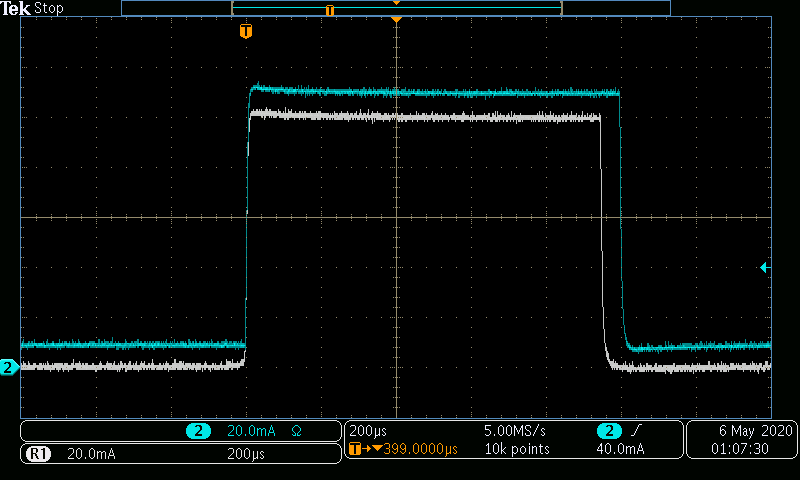
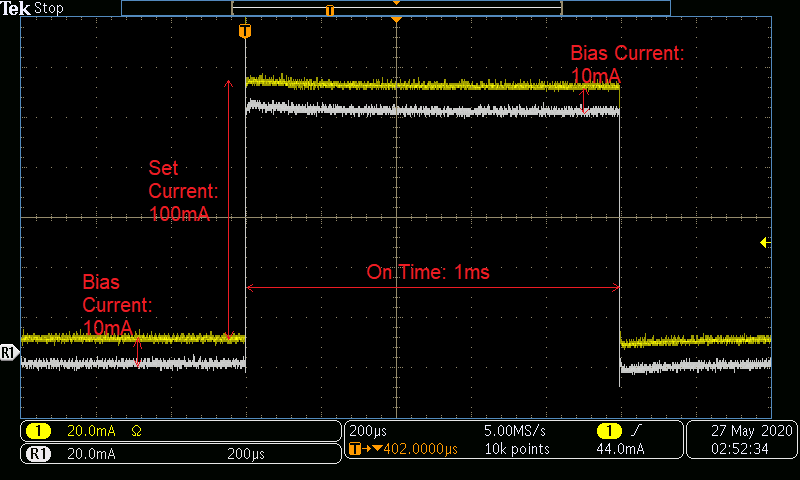
Minor improvements to all README file
Bill's final review to README.md files prior to publishing

diff --git a/README.md b/README.md
@@ -6,11 +6,11 @@ Use these code samples to start learning how to communicate with your SpikeSafe 
 
 ## Directory
 
-- [Getting Started](getting_started) - These sequences are primarily intended for first-time users of Vektrex products. They contain steps to perform the basic tasks that are necessary to run the sequences within the instrument_examples folder.
+- [Getting Started](getting_started) - These sequences are primarily intended for first-time users of Vektrex products. They contain steps to perform the basic tasks that are necessary to run the sequences within the run_spikesafe_operating_modes folder.
 - [Run SpikeSafe Operating Modes](run_spikesafe_operating_modes) - These folders contain examples to run specific SpikeSafe modes designed to test LEDs, Lasers, and electrical equipment. Basic settings will be sent to the SpikeSafe, and then one or more channels will be enabled to demonstrate the operation of each mode.
 - [Making Integrated Voltage Measurements](making_integrated_voltage_measurements) - These folders contain examples to measure voltage using the SpikeSafe SMU's integrated voltage Digitizer. The SpikeSafe outputs current to an LED, Laser, or electrical equipment, and then voltage measurements are read and displayed onscreen.
-- [Using the Force Sense Selector Switch](using_force_sense_selector_switch) - These folders contain examples to operate the optional integrated switch within the SpikeSafe SMU. The SpikeSafe outputs to an LED, Laser, or electrical equipment as in the previous examples, and the switch is used to either disconnect the SpikeSafe from the test circuit or operate an auxiliary source to power the DUT.
-- [Application Specific Examples](application_specific_examples) - These folders consist of more advanced sequences to address specific test scenarios, as well as some demonstrations to fine-tune your SpikeSafe current output. These sequences explain how to make light measurements using a SpikeSafe and a spectrometer, how to make in-situ junction temperature measurements on LEDs, and how to take full advantage of all SpikeSafe features.
+- [Using the Force Sense Selector Switch](using_force_sense_selector_switch) - These folders contain examples to operate the optional integrated switch within the SpikeSafe SMU. The SpikeSafe outputs to an LED, Laser, or electrical equipment as in the previous examples, and the switch is used to either disconnect the SpikeSafe from the test circuit or to operate an auxiliary source to power the DUT.
+- [Application-Specific Examples](application_specific_examples) - These folders consist of more advanced sequences to address specific test scenarios, as well as some demonstrations to fine-tune your SpikeSafe current output. These sequences explain how to make light measurements using a SpikeSafe and a spectrometer, how to make in-situ junction temperature measurements on LEDs, and how to take full advantage of all SpikeSafe features.
 
 ## Usage
 
@@ -18,7 +18,7 @@ To run these sequences, an IDE such as [Visual Studio Code](https://code.visuals
 
 Once the spikesafe-python package is installed, each script in this repository can be run independently as a standalone Python file. Run a file  in its current state and verify that the expected outputs are obtained, as specified by the file's markdown description.
 
-For most examples, you may need to modify the specified IP address within a sequence to match the IP address that is physically set on your SpikeSafe's DIP switch. In each sequence, the default IP address is set to 10.0.0.220 in the line `ip_address = '10.0.0.220'`.
+For most examples, you may need to modify the specified IP address within a sequence to match the IP address that is physically set on your SpikeSafe's DIP switch. In each sequence, the default IP address of 10.0.0.220 is set in the line `ip_address = '10.0.0.220'`.
 
 Each file can be modified to include additional settings and commands to fit individual needs. Refer to SpikeSafe documentation for more information on the SpikeSafe API.
 
@@ -39,15 +39,15 @@ First start with [TCP Socket Sample](getting_started/tcp_socket_sample) to learn
 
 ## Versioning
 
-We use [SemVer](http://semver.org/) for versioning. For the versions available, see the [tags on this repository](https://github.com/your/project/tags). 
+We use [SemVer](http://semver.org/) for versioning. For the versions available, see the [tags on this repository](https://github.com/VektrexElectronicSystems/SpikeSafePythonSamples/tags). 
 
 ## Support/Feedback
 
 If any further assistance is needed beyond the information provided within this repository, email support@vektrex.com.
 
-Feature requests and bug reports can be submitted to the [Issues Page](issues) of this repository. This page is regularly monitored and maintained by Vektrex engineers.
+Feature requests and bug reports can be submitted to the [Issues Page](https://github.com/VektrexElectronicSystems/SpikeSafePythonSamples/issues) of this repository. This page is regularly monitored and maintained by Vektrex engineers.
 
-## Authors
+## Contributors
 
 * **Bill Thompson** - [BillThomp](https://github.com/BillThomp)
 * **Eljay Gemoto** - [eljayg](https://github.com/eljayg)

diff --git a/run_spikesafe_operating_modes/run_bias_pulsed/README.md b/run_spikesafe_operating_modes/run_bias_pulsed/README.md
@@ -5,16 +5,16 @@ Demonstrate how to use a SpikeSafe PRF or SMU to deliver high precision pulsed c
 
 These modes are similar to their corresponding [Pulsed Mode](../run_pulsed) in every aspect except for the always-on bias current that is outputted while a channel running a Bias Pulsed mode is enabled.
 
-Vektrex recommends using Continuous Dynamic Bias Current (CDBC) for testing low currents below a few amps.  CDBC mode starts with no ramp, the current transitions from zero to the programmed value in microseconds. CDBC mode does not make adjustment to decrease internal power dissipation.
+Vektrex recommends using Continuous Dynamic Bias Current (CDBC) for testing low currents below a few amps.  CDBC mode starts with no ramp; the current transitions from zero to the programmed value in microseconds. CDBC mode does not make adjustments to decrease internal power dissipation.
 
-For long term testing over a few amps Continuous Bias Current (CBC) mode is recommended. CBC mode makes internal adjustments to decrease power dissipation. For long term reliability testing this reduction in power will save energy and generate less heat. The small adjustments can introduce a very small current variation, usually less than 0.1% of programmed set current.
+For long term testing over a few amps, Continuous Bias Current (CBC) mode is recommended. CBC mode makes internal adjustments to decrease power dissipation. For long term reliability testing this reduction in power will save energy and generate less heat. The small adjustments can introduce a very small current variation, usually less than 0.1% of programmed set current.
 
  When using these Bias modes for Tj measurements, CDBC mode is normally used and the bias source is programmed to a small fraction of the load device operating current. When the heating current then turns off (during the pulse off time) the small bias current continues to drive the load device. The load forward voltage can then be measured and compared with calibration voltage readings to determine the temperature of the load device. Bias Current only mode is normally used to generate the calibration voltage readings. More information about Tj measurement can be found at [JESD 51-51](https://www.jedec.org/sites/default/files/docs/JESD51-51.pdf) and [LEDs Magazine](https://www.ledsmagazine.com/manufacturing-services-testing/article/14173251/jedec-technique-simplifies-led-junction-temperature-measurement). 
 
 ## **Run Bias Pulsed Mode**
 
 ### Overview 
-Operates SpikeSafe as pulsed current source with a user-specified Pulse On Time and Pulse Off Time. During the On Times, the Set Current plus the Bias Current will be outputted. During the Off Times, only the Bias Current will be outputted
+Operates SpikeSafe as a pulsed current source with a user-specified Pulse On Time and Pulse Off Time. During the On Times, the Set Current plus the Bias Current will be outputted. During the Off Times, only the Bias Current will be outputted
 
 ### Key Settings 
 - **Set Current:** 100mA
@@ -43,7 +43,7 @@ When running either sequence, one can expect to see the following current output
 ## **Run Bias Pulsed Dynamic Mode**
 
 ### Overview
-Operates SpikeSafe as pulsed current source with multiple output currents. In Continuous Dynamic mode, the Set Current, On Time, and Off Time can be modified while the SpikeSafe is outputting current.  
+Operates SpikeSafe as a pulsed current source with multiple output currents. In Continuous Dynamic mode, the Set Current, On Time, and Off Time can be modified while the SpikeSafe is outputting current.  
 
 Set the Maximum Compliance Voltage (MCV) to the expected load voltage +5V. Reduce MCV if an internal over power error occurs. 
 

diff --git a/run_spikesafe_operating_modes/run_single_pulse/README.md b/run_spikesafe_operating_modes/run_single_pulse/README.md
@@ -6,7 +6,7 @@ Demonstrate how to use a SpikeSafe PRF or SMU to deliver a high precision single
 ## **Run Single Pulse Mode**
 
 ### Overview 
-Operates SpikeSafe as pulsed current source outputting a single pulse with user-specified output current and Pulse On Time. Pulses are outputted when the "Output Trigger" SCPI command is received. 
+Operates SpikeSafe as a pulsed current source outputting a single pulse with user-specified output current and Pulse On Time. Pulses are outputted when the "Output Trigger" SCPI command is received. 
 
 A channel that is operating in Single Pulse mode can output as many pulses as specified while enabled. A pulse will only be outputted if the command is received after the previous pulse is complete. When a channel is enabled but no pulse is outputting, the user is able to change the Set Current.
 
@@ -18,12 +18,12 @@ A channel that is operating in Single Pulse mode can output as many pulses as sp
 ### Current Output
 When running this sequence, one can expect to see the following pulse output when running with a Set Current of 100mA. This image was acquired by measuring output current using a TCPA300 Current Probe into a MDO3024 Mixed Domain Oscilloscope
 
-![](Single_Pulse_Shape.png)
+![](single_pulse_shape.png)
 
 ## **Run Bias Single Pulse Mode**
 
 ### Overview
-Operates SpikeSafe as pulsed current source outputting a single pulse with user-specified output current and Pulse On Time. Pulses are outputted when the "Output Trigger" SCPI command is received. 
+Operates SpikeSafe as a pulsed current source outputting a single pulse with user-specified output current and Pulse On Time. Pulses are outputted when the "Output Trigger" SCPI command is received. 
 
 This mode is very similar to Single Pulse mode, except that there is a user-specified constant Bias Current being outputted on the milliAmp scale while the channel is enabled. When a pulse is outputted, the current amplitude will be equivalent to the Set Current plus the Bias Current.
 
@@ -34,6 +34,6 @@ This mode is very similar to Single Pulse mode, except that there is a user-spec
 - **Compliance Voltage:** 20V
 
 ### Current Output
-When running this sequence, one can expect to see the following pulse output. Note the 10mA offset between the channel running Bias Single Pulse (in blue) and the channel running Single Pulse without a Bias Current (in white). This image was acquired by measuring output current using a TCPA300 Current Probe into a MDO3024 Mixed Domain Oscilloscope
+When running this sequence, one can expect to see the following pulse output. Note the 10mA offset between the channel running Bias Single Pulse (in yellow) and the channel running Single Pulse without a Bias Current (in white). This image was acquired by measuring output current using a TCPA300 Current Probe into a MDO3024 Mixed Domain Oscilloscope
 
-![](Bias_Single_Comparison.png)
+![](bias_single_comparison.png)

diff --git a/run_spikesafe_operating_modes/run_pulsed/README.md b/run_spikesafe_operating_modes/run_pulsed/README.md
@@ -3,14 +3,14 @@
 ## **Purpose**
 Demonstrate how to use a SpikeSafe PRF or SMU to deliver high precision pulsed current to an LED or Laser. Continuous and Continuous Dynamic operation modes output a continuous current pulse train at the specified Set Current, On Time, and Off Time. These two modes differ in the way they start up, and the way they regulate current after startup.
 
-Vektrex recommends using Continuous Dynamic for testing low currents below a few amps.  Continuous Dynamic starts with no ramp, the current transitions from zero to the programmed value in microseconds. Continuous Dynamic does not make adjustments to decrease internal power dissipation.
+Vektrex recommends using Continuous Dynamic for testing low currents below a few amps.  Continuous Dynamic starts with no ramp; the current transitions from zero to the programmed value in microseconds. Continuous Dynamic does not make adjustments to decrease internal power dissipation.
 
-For long term testing over a few amps Continuous mode is recommended. Continuous Mode makes internal adjustment to decrease power dissipation. For long term reliability testing this reduction in power will save energy and generate less heat. The small adjustments can introduce a very small current variation, usually less than 0.1% of programmed set current.
+For long term testing over a few amps Continuous mode is recommended. Continuous Mode makes internal adjustments to decrease power dissipation. For long term reliability testing this reduction in power will save energy and generate less heat. The small adjustments can introduce a very small current variation, usually less than 0.1% of programmed set current.
 
 ## **Run Pulsed Mode**
 
 ### Overview 
-Operates SpikeSafe as pulsed current source with single output current and user-specified Pulse On Time and Pulse Off Time.
+Operates SpikeSafe as a pulsed current source with single output current and user-specified Pulse On Time and Pulse Off Time.
 
 ### Key Settings 
 - **Set Current:** 100mA
@@ -38,7 +38,7 @@ When running either sequence, one can expect to see the following current output
 ## **Run Pulsed Dynamic Mode**
 
 ### Overview
-Operates SpikeSafe as pulsed current source with multiple output currents. In Continuous Dynamic mode, the Set Current, On Time, and Off Time can be modified while the SpikeSafe is outputting current.  
+Operates SpikeSafe as a pulsed current source with multiple output currents. In Continuous Dynamic mode, the Set Current, On Time, and Off Time can be modified while the SpikeSafe is outputting current.  
 
 Set the Maximum Compliance Voltage (MCV) to the expected load voltage +5V. Reduce MCV if an internal over power error occurs. 
 

diff --git a/run_spikesafe_operating_modes/run_pulsed_sweep/README.md b/run_spikesafe_operating_modes/run_pulsed_sweep/README.md
@@ -6,13 +6,13 @@ Demonstrate how to use a SpikeSafe PRF or SMU to deliver a pulsed current sweep 
 ## **Run Pulsed Sweep Mode**
 
 ### Overview 
-Operates SpikeSafe as pulsed current source outputting a current pulses from a specified Start Current to a specified Stop Current. Intermediate current step amplitudes are calculated using the user-specified Step Count:
+Operates SpikeSafe as a pulsed current source outputting a pulsed current sweep from a specified Start Current to a specified Stop Current. Intermediate current step amplitudes are calculated using the user-specified Step Count:
 
 ![](step_size_calculation.png)
 
 For more advanced cases, a Pulse Count may be specified which sets the amount of pulses that are outputted per current step. See [Running LIV Sweeps](../../application_specific_examples/running_liv_sweeps) for examples that implement the Pulse Count setting.
 
-With default settings, a pulsed sweep is started when the "Output Trigger" SCPI command is received. A channel that is operating in Pulsed Sweep mode can output as many sweeps as specified while enabled. A new pulse sweep will only be started if the initialization trigger is received after the previous pulsed sweep is complete. The event queue will output a new "109, Pulsed Sweep Complete" message once a pulsed sweep completes.
+With default settings, a pulsed sweep is started when the "Output Trigger" SCPI command is received. A channel that is operating in Pulsed Sweep mode can output as many sweeps as specified while enabled. A new pulsed sweep will only be started if the initialization trigger is received after the previous pulsed sweep is complete. The event queue will output a new "109, Pulsed Sweep Complete" message once a pulsed sweep completes.
 
 ### Key Settings 
 - **Start Current:** 20mA
@@ -36,7 +36,7 @@ When running a pulsed sweep using this sequence, one can expect to see the follo
 ## **Run Bias Pulsed Sweep Mode**
 
 ### Overview
-Operates SpikeSafe as pulsed current source outputting a current pulses from a specified Start Current to a specified Stop Current. Pulses are outputted when the "Output Trigger" SCPI command is received. 
+Operates SpikeSafe as a pulsed current source outputting a pulsed current sweep from a specified Start Current to a specified Stop Current. Pulses are outputted when the "Output Trigger" SCPI command is received. 
 
 This mode is very similar to Pulsed Sweep mode, except that there is a user-specified constant Bias Current being outputted on the milliAmp scale while the channel is enabled. When a pulse is outputted, the current amplitude will be equivalent to the Step Current plus the Bias Current.
 

diff --git a/run_spikesafe_operating_modes/run_dc/README.md b/run_spikesafe_operating_modes/run_dc/README.md
@@ -3,14 +3,14 @@
 ## **Purpose**
 Demonstrate how to use a SpikeSafe PRF or SMU to deliver high precision DC current to an LED or Laser.  DC and DC Dynamic operation modes output constant current at the specified Set Current. These two modes differ in the way they start up, and the way they regulate current after startup.
 
-Vektrex recommends using DC Dynamic for testing low currents below a few amps.  DC Dynamic starts with no ramp, the current transitions from zero to the programmed value in microseconds. DC Dynamic does not make adjustment to decrease internal power dissipation.
+Vektrex recommends using DC Dynamic for testing low currents below a few amps.  DC Dynamic starts with no ramp; the current transitions from zero to the programmed value in microseconds. DC Dynamic does not make adjustment to decrease internal power dissipation.
 
 For long term testing over a few amps DC mode is recommended.  DC Mode makes internal adjustment to decrease power dissipation.  For long term reliability testing this reduction in power will save energy and generate less heat.  The small adjustments can introduce a very small current variation, usually less than 0.1% of programmed set current.
 
 ## **Run DC Mode**
 
 ### Overview 
-Operates SpikeSafe as DC current source with single output current.
+Operates SpikeSafe as a DC current source with single output current.
 
 ### Key Settings 
 - **Set Current:** 100mA
@@ -25,7 +25,7 @@ Operates SpikeSafe as DC current source with single output current.
 ## **Run DC Dynamic Mode**
 
 ### Overview
-Operates SpikeSafe as DC current source with multiple output currents. In DC Dynamic mode, the Set Current can be modified while the SpikeSafe is outputting current.  This example can be used to generate a software controlled stair case ramp.
+Operates SpikeSafe as a DC current source with multiple output currents. In DC Dynamic mode, the Set Current can be modified while the SpikeSafe is outputting current.  This example can be used to generate a software controlled stair case ramp.
 
 Set the Maximum Compliance Voltage (MCV) to the expected load voltage +5V. Reduce MCV if an internal over power error occurs. 
 

diff --git a/getting_started/README.md b/getting_started/README.md
@@ -5,13 +5,12 @@ These sequences are primarily intended for first-time users of Vektrex products.
 ## Directory
 For first-time users, Vektrex recommends running the sequences in the order shown below:
 
-1. [TCP Sample](tcp_socket_sample) - a more in depth example that connects to the SpikeSafe using a TCP socket. An *IDN? query is sent with more verbose Python commands.
-2. [Read *IDN?](read_idn) - Uses the SCPI Standard "*IDN?" query to obtain the model your SpikeSafe
+1. [TCP Sample](tcp_socket_sample) - a more in depth example that connects to the SpikeSafe using a TCP socket. An *IDN? query is sent with more verbose Python commands
+2. [Read *IDN?](read_idn) - Uses the SCPI Standard "*IDN?" query to obtain the model of your SpikeSafe
 3. [Read All Events](read_all_events) - Reads all events from the SpikeSafe event queue 
 4. [Read Memory Table Data](read_memory_table_data) - Reads the SpikeSafe status and obtains current operational information from the SpikeSafe
 
 ## Usage
 To run these sequences, an IDE such as [Visual Studio Code](https://code.visualstudio.com/) is required. The [spikesafe-python](https://pypi.org/project/spikesafe-python/) repository will need to be installed as a package using the command `python -m pip install spikesafe-python`. Vektrex recommends always having the latest version of spikesafe-python when running these sequences; the current version is 1.1.0. It may help to run these sequences in a [virtual environment](https://docs.python.org/3/tutorial/venv.html).
 
-
-Simply change the line `ip_address = '10.0.0.220'` to match the IP address of you connected SpikeSafe and run the sequence (generally by pressing F5). Observe the outputs that appear in the terminal window.
+Simply change the line `ip_address = '10.0.0.220'` to match the IP address of you connected SpikeSafe and run the sequence (generally by pressing F5). Observe the outputs that appear in both the terminal window and SpikeSafePythonSamples.log, which will output wherever you have saved the SpikeSafePythonSamples repository.

diff --git a/getting_started/read_memory_table_data/README.md b/getting_started/read_memory_table_data/README.md
@@ -1,8 +1,8 @@
 # Reading Memory Table Data
-The `*MEMory:TABLe:READings` query is a SpikeSafe-specific SCPI query to obtain status information for all SpikeSafe channels. This information includes the current bulk voltage, channel voltage, channel current, and channel state. The temperatures of each heat sink are also obtained by this query.
+The `MEMory:TABLe:READings` query is a SpikeSafe-specific SCPI query to obtain status information for all SpikeSafe channels. This information includes the current bulk voltage, channel voltage, channel current, and channel state. The temperatures of each heat sink are also obtained by this query.
 
 ## Purpose
-Demonstrate proper usage of the "Get SpikeSafe Status" query on the SpikeSafe. During typical operation, the `*MEMory:TABLe:READings` query should be sent periodically while the SpikeSafe is connected in order to monitor temperature and power output. This is especially useful when one or more SpikeSafe channels are enabled.
+Demonstrate proper usage of the "Get SpikeSafe Status" query on the SpikeSafe. During typical operation, the `MEMory:TABLe:READings` query should be sent periodically while the SpikeSafe is connected in order to monitor temperature and power output. This is especially useful when one or more SpikeSafe channels are enabled.
 
 ## Expected Output
 A Get SpikeSafe Status query will be sent, and its response will be read. This typically looks similar to the text shown below if connected to a one-channel SpikeSafe and that channel is disabled.

diff --git a/making_integrated_voltage_measurements/measure_pulsed_sweep_voltage/README.md b/making_integrated_voltage_measurements/measure_pulsed_sweep_voltage/README.md
@@ -8,7 +8,7 @@ The SpikeSafe SMU's integrated Digitizer is used to make high precision voltage 
 ## Overview 
 Operates SpikeSafe as both a pulsed current source and a high precision voltage measurement device. A Pulsed Sweep is outputted as demonstrated in [Run Pulsed Mode](../../run_spikesafe_operating_modes/run_pulsed_sweep). While current pulses are outputted, voltage measurements are being taken across the flattest portion of each current pulse. After all measurements are taken and read, the results are plotted in an I-V graph.
 
-The Digitizer is set to receive a hardware trigger, meaning that it will use the SpikeSafe's output trigger signal as it input trigger. The measurement is delayed slightly to avoid measuring any rise time or possible current overshoot on the DUT.
+The Digitizer is set to receive a hardware trigger, meaning that it will use the SpikeSafe's output trigger signal as its input trigger. The measurement is delayed slightly to avoid measuring any rise time or possible current overshoot on the DUT.
 
 Note the use of the New Data query while the SpikeSafe is operating. While the Digitizer is still acquiring voltage data, it can be unobtrusively queried to determine if the buffer is full yet. This information can be used to determine whether the user would ideally want to fetch data, as the data fetch will only return fresh data if the specified measurements have occurred.
 

diff --git a/making_integrated_voltage_measurements/measure_all_pulsed_voltages/README.md b/making_integrated_voltage_measurements/measure_all_pulsed_voltages/README.md
@@ -6,7 +6,7 @@ Demonstrate how to use the SpikeSafe SMU's integrated Digitizer to make high pre
 ## Overview 
 Operates SpikeSafe as both a pulsed current source and a high precision voltage measurement device. While current pulses are outputted, voltage measurements are being taken across the flattest portion of each current pulse. This happens until the reading buffer of the SpikeSafe SMU Digitizer is full, in which all voltage readings are read and printed to the console.
 
-The digitizer is set to receive a hardware trigger, meaning that it will use the SpikeSafe's output trigger signal as it input trigger. The measurement is delayed slightly to avoid measuring any rise time or possible current overshoot on the DUT.
+The digitizer is set to receive a hardware trigger, meaning that it will use the SpikeSafe's output trigger signal as its input trigger. The measurement is delayed slightly to avoid measuring any rise time or possible current overshoot on the DUT.
 
 Note the use of the New Data query while the SpikeSafe is operating. While the Digitizer is still acquiring voltage data, it can be unobtrusively queried to determine if the buffer is full yet. This information can be used to determine whether the user would ideally want to fetch data, as the data fetch will only return fresh data if the specified measurements have occurred.
 

diff --git a/making_integrated_voltage_measurements/measure_voltage_across_pulse/README.md b/making_integrated_voltage_measurements/measure_voltage_across_pulse/README.md
@@ -31,7 +31,7 @@ Note the use of the New Data query while the SpikeSafe is operating. While the D
 - To apply this principle to measure voltages across a pulse of different width, one should note the following parameter constraints:
     - Aperture must be set in increments of 2µs, with 2µs being the minimum value
     - The Digitizer is able to store a maximum of 525 readings
-    - It is often useful to observe the falling edge of a pulse. To perform this, optimize test parameters so that Pulse Width = 500 * Aperture. Set Reading Count to 525.
+    - It is often useful to observe the full pulse behavior, which includes the falling edge. To perform this, optimize test parameters so that Pulse Width = 500 * Aperture. Set Reading Count to 525.
 
 ## Expected Results
 The SpikeSafe current output will look exactly as it does in the "Run Single Pulse" example. The Digitizer voltage measurements will be returned as a string in byte format with comma-separated voltage measurements in scientific notation. In this example, a graph of the measured pulse will automatically be generated. See an example of pulse output into a 10Ω resistor shown below:

diff --git a/run_spikesafe_operating_modes/run_multi_pulse/README.md b/run_spikesafe_operating_modes/run_multi_pulse/README.md
@@ -6,7 +6,7 @@ Demonstrate how to use a SpikeSafe PRF or SMU to deliver a high precision curren
 ## **Run Multi Pulse Mode**
 
 ### Overview 
-Operates SpikeSafe as pulsed current source outputting a current pulse train with user-specified pulse count. Typical pulse settings such as Set Current, On Time, and Off Time also apply to this mode. When default trigger settings are used, pulses are outputted when the "Output Trigger" SCPI command is received. 
+Operates SpikeSafe as a pulsed current source outputting a current pulse train with user-specified pulse count. Typical pulse settings such as Set Current, On Time, and Off Time also apply to this mode. When default trigger settings are used, pulses are outputted when the "Output Trigger" SCPI command is received. 
 
 A channel that is operating in Multi Pulse mode can output as many pulses as specified while enabled. A pulse will only be outputted if the command is received after the previous pulse is complete. When a channel is enabled but no pulses are outputting, the user is able to change the Set Current.
 
